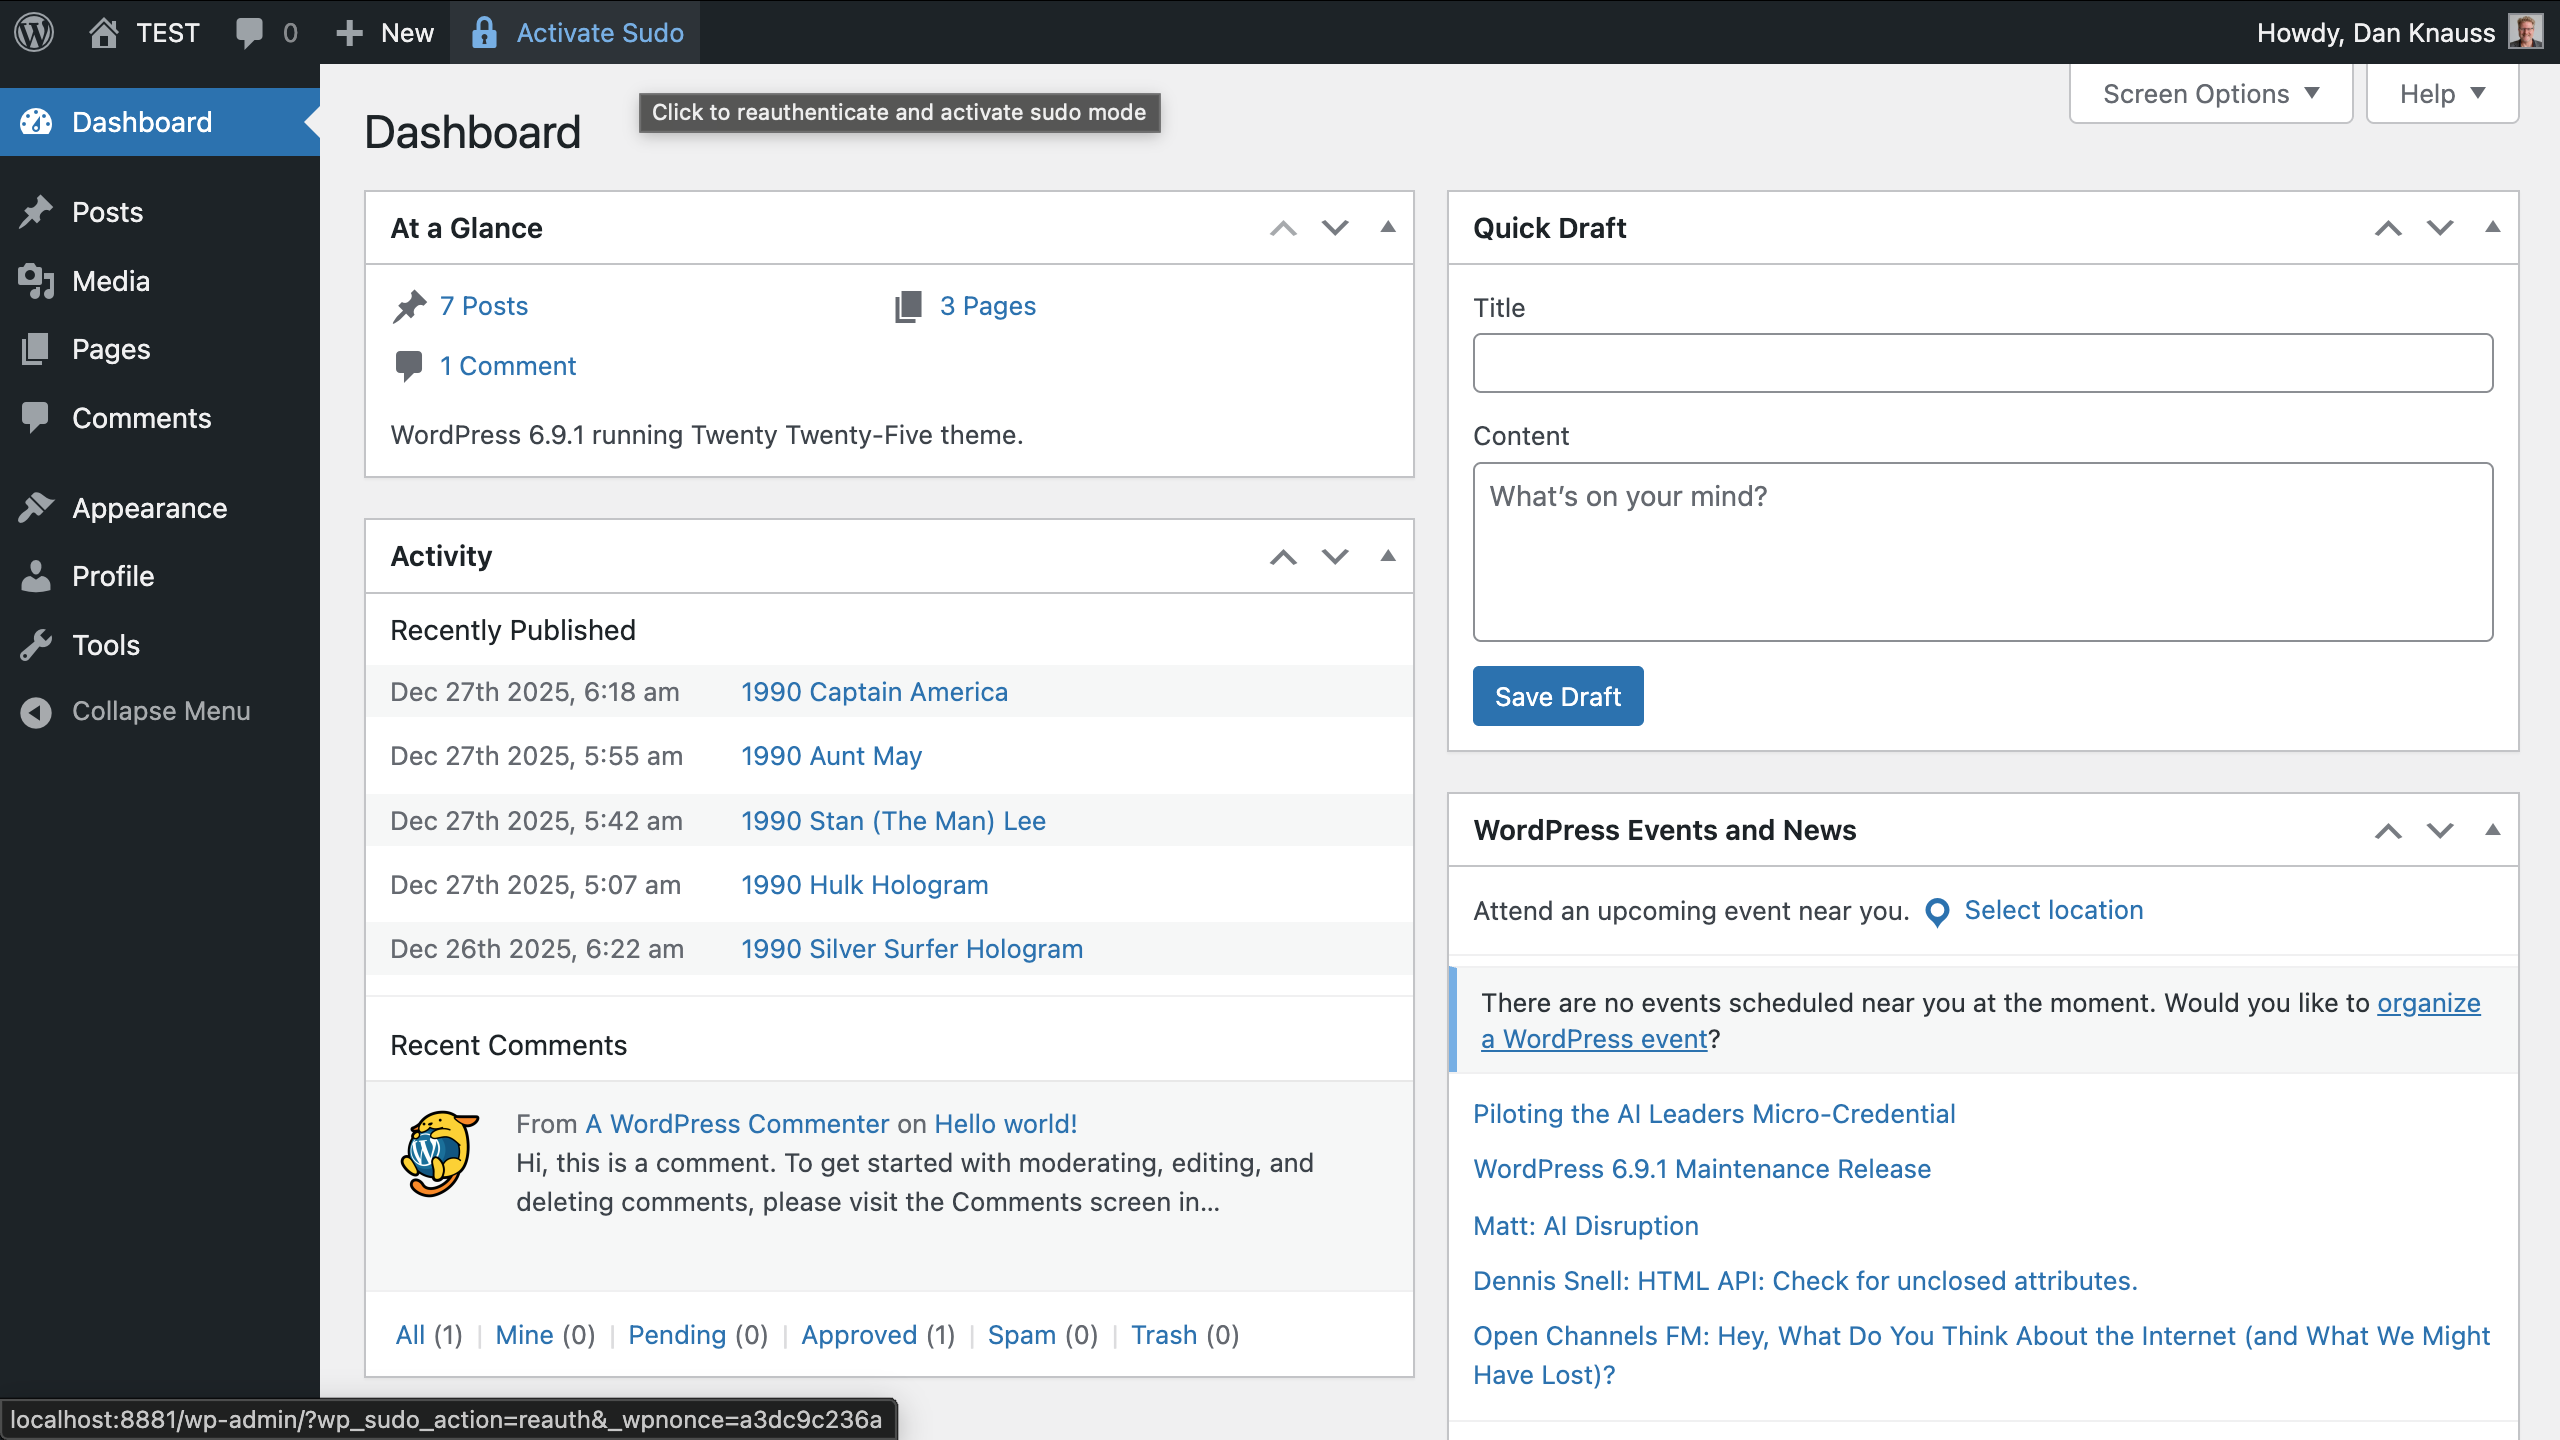
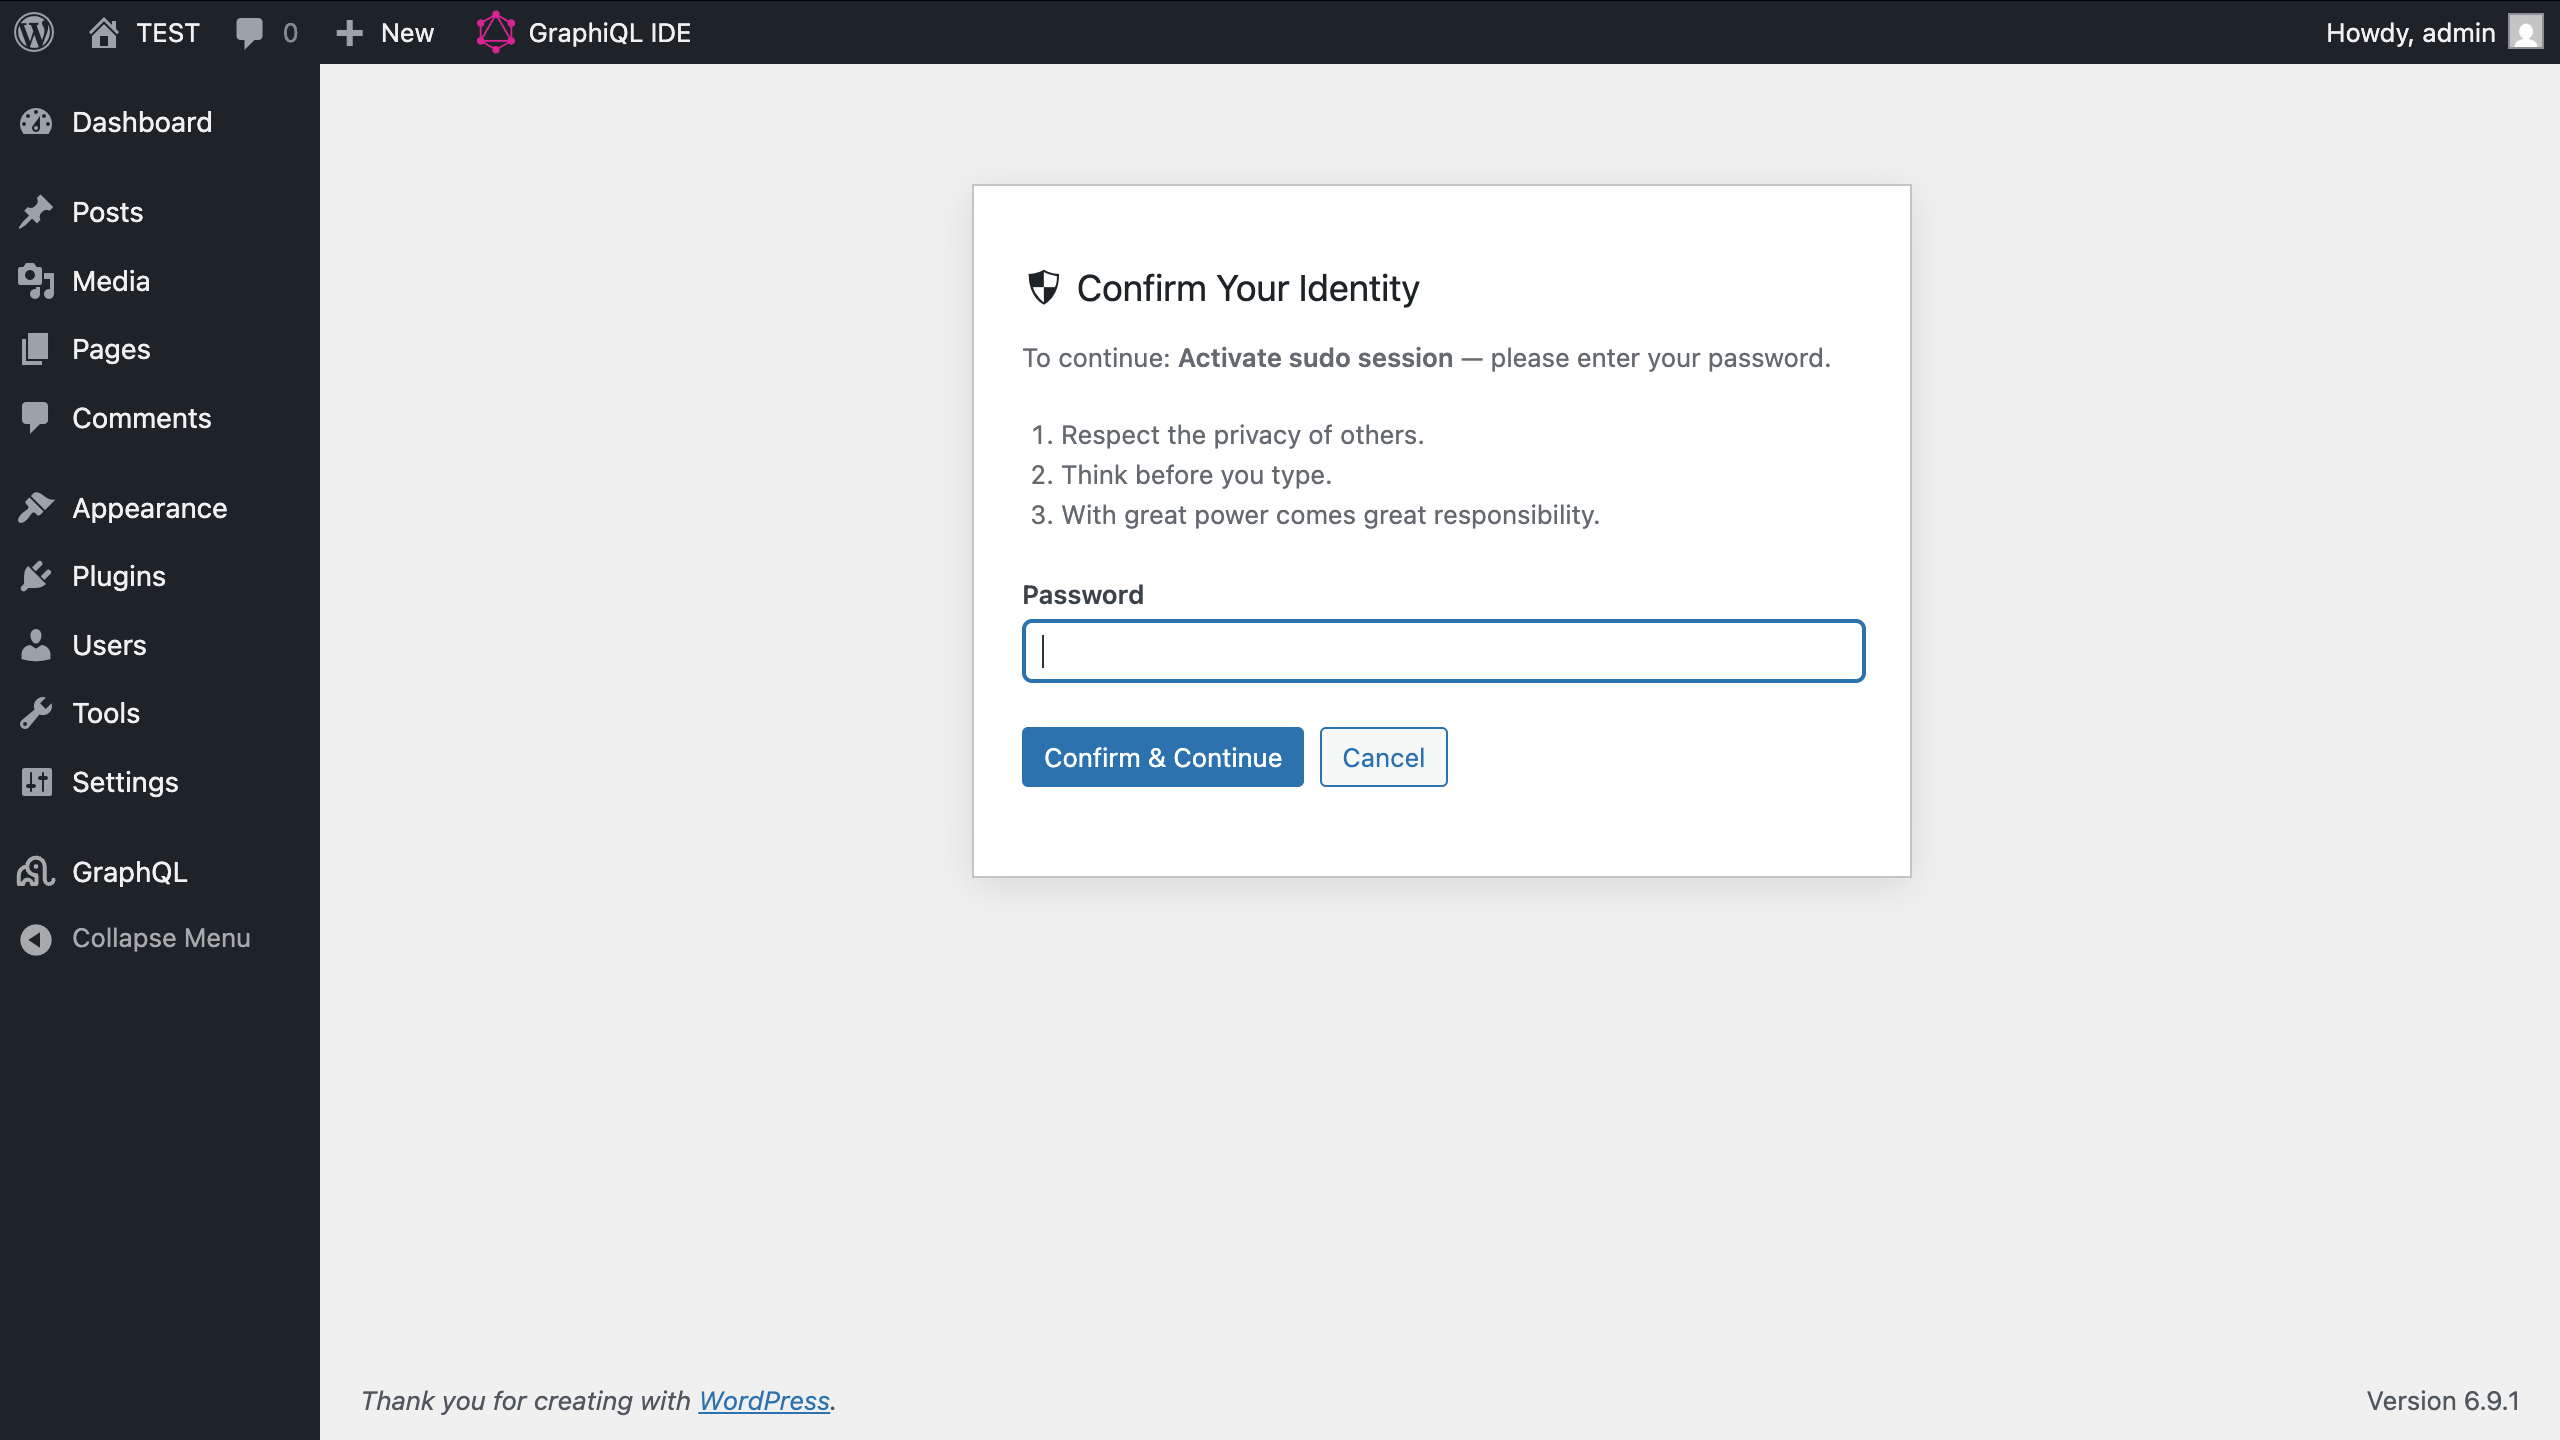
docs: update screenshots and descriptions for v2 UI

diff --git a/readme.md b/readme.md
@@ -210,21 +210,33 @@ do_action( 'wp_sudo_capability_tampered', string $role, string $capability );
 
 ## Screenshots
 
-1. **Challenge page** — a gated action triggers a reauthentication interstitial with the action description and password field.
+1. **Challenge page** — reauthentication interstitial with password field. Triggered by a gated action or proactively via the keyboard shortcut.
 
    ![Challenge page](assets/screenshot-1.png)
 
-2. **Active sudo session** — the admin bar shows a green countdown timer (M:SS). Turns red in the final 60 seconds.
+2. **Two-factor verification** — after password confirmation, users with 2FA enabled enter their authentication code.
 
-   ![Active sudo session](assets/screenshot-2.png)
+   ![Two-factor verification](assets/screenshot-2.png)
 
-3. **Settings page** — configure session duration and entry point policies. View all gated actions and mu-plugin status.
+3. **Settings page** — configure session duration and entry point policies (REST, CLI, Cron, XML-RPC).
 
    ![Settings page](assets/screenshot-3.png)
 
-4. **Admin notice** — when an AJAX or REST operation is blocked, an admin notice links to the challenge page for session activation.
+4. **Gate notice (plugins)** — when no sudo session is active, a persistent notice links to the challenge page. Action buttons are disabled.
 
-   ![Admin notice](assets/screenshot-4.png)
+   ![Gate notice on plugins page](assets/screenshot-4.png)
+
+5. **Gate notice (themes)** — the same gating notice appears on the themes page.
+
+   ![Gate notice on themes page](assets/screenshot-5.png)
+
+6. **Gated actions** — the settings page lists all gated operations with their categories and surfaces.
+
+   ![Gated actions table](assets/screenshot-6.png)
+
+7. **Active sudo session** — the admin bar shows a green countdown timer with the remaining minutes and seconds. Hover to see the deactivation link.
+
+   ![Active sudo session](assets/screenshot-7.png)
 
 ## Changelog
 
@@ -232,6 +244,8 @@ do_action( 'wp_sudo_capability_tampered', string $role, string $capability );
 
 - Removes the `unfiltered_html` capability from the Editor role. Editors can no longer embed scripts, iframes, or other non-whitelisted HTML — KSES sanitization is always active for editors. Administrators retain `unfiltered_html`. The capability is restored if the plugin is deactivated or uninstalled.
 - Adds tamper detection: if `unfiltered_html` reappears on the Editor role (e.g. via database modification), it is stripped automatically and the `wp_sudo_capability_tampered` action fires for audit logging.
+- Fixes admin bar deactivation redirect: clicking the countdown timer to end a session now keeps you on the current page instead of redirecting to the dashboard.
+- Replaces WordPress core's confusing "user editing capabilities" error with a clearer message when a bulk role change skips the current user.
 
 ### 2.0.0
 
